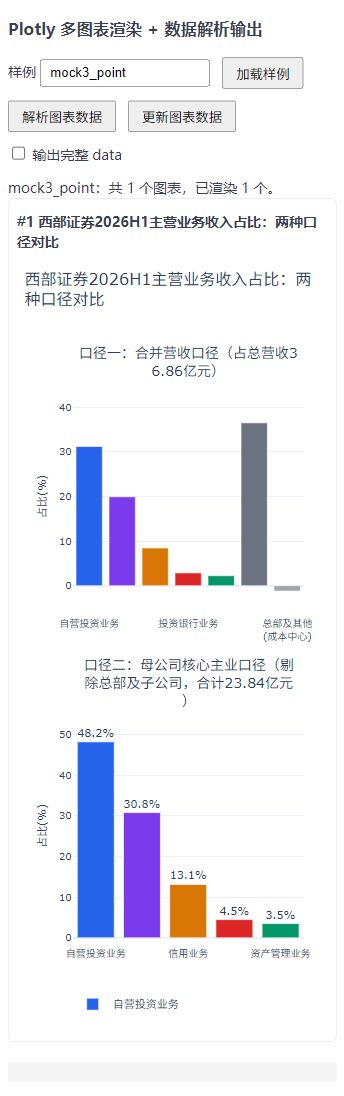
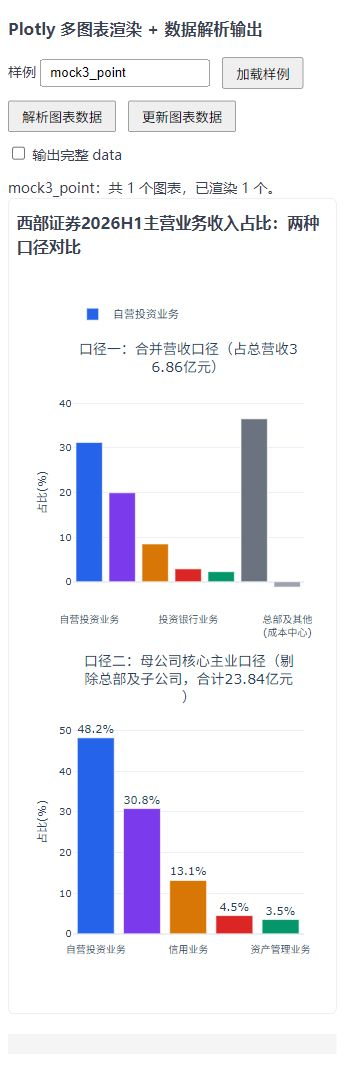
feat  优化默认标题和图例

diff --git a/skills/plotly-responsive/assets/plotly-responsive.js b/skills/plotly-responsive/assets/plotly-responsive.js
@@ -435,21 +435,21 @@
         });
     }
 
-    function legendMetrics(data, layout, availableWidth) {
+    function legendMetrics(data, layout, availableWidth, fontSize = 11) {
         if (layout.showlegend === false || (layout.legend && layout.legend.visible === false)) return { height: 0, rows: 0 };
         const entries = [];
         for (const [i, trace] of data.entries()) {
             if (trace.showlegend === false || trace.visible === false) continue;
             if (['pie', 'funnelarea'].includes(trace.type) && Array.isArray(trace.labels)) {
                 const originalLabels = trace.labels.slice();
-                trace.labels = trace.labels.map(label => wrapText(String(label), 11, Math.max(70, availableWidth - 54)).text);
+                trace.labels = trace.labels.map(label => wrapText(String(label), fontSize, Math.max(70, availableWidth - 54)).text);
                 entries.push(...trace.labels);
                 if (!trace.hovertemplate && !trace.hovertext) {
                     trace.hovertext = originalLabels;
                     trace.hovertemplate = '%{hovertext}<br>%{value}<br>%{percent}<extra></extra>';
                 }
             } else if (!DOMAIN_TYPES.has(trace.type) && (trace.name || trace.showlegend === true || data.length > 1)) {
-                trace.name = wrapText(String(trace.name || 'trace ' + i), 11, Math.max(70, availableWidth - 54)).text;
+                trace.name = wrapText(String(trace.name || 'trace ' + i), fontSize, Math.max(70, availableWidth - 54)).text;
                 entries.push(trace.name);
             }
         }
@@ -460,8 +460,8 @@
         let rows = 1;
         for (const text of entries) {
             const lines = plainText(text).split('\n');
-            const itemWidth = Math.min(availableWidth, Math.max(...lines.map(line => textWidth(line, 11))) + 54);
-            const itemHeight = lines.length * 16 + 8;
+            const itemWidth = Math.min(availableWidth, Math.max(...lines.map(line => textWidth(line, fontSize))) + 54);
+            const itemHeight = lines.length * (fontSize + 5) + 8;
             if (used && used + itemWidth > availableWidth) {
                 height += rowHeight;
                 rows++;
@@ -690,9 +690,88 @@
         return [{ menuIndex, values, buttonNames: menu.buttons.map(button => button.name) }];
     }
 
+    function headerFromTitle(value, layout, mobile) {
+        const title = typeof value === 'string' ? { text: value } : normalizeValue(value || {});
+        const size = number(title.font && title.font.size, mobile ? 16 : 18);
+        title.font = Object.assign({}, layout.font, title.font);
+        title.font.size = mobile ? Math.min(size, 16) : size;
+        return title;
+    }
+
+    // Keep only Plotly's text formatting subset; model HTML is never inserted directly.
+    function renderHeader(element, header) {
+        element.replaceChildren();
+        element.hidden = !header || !header.text && !(header.subtitle && header.subtitle.text);
+        if (element.hidden) return;
+        const doc = element.ownerDocument;
+        element.style.overflowWrap = 'anywhere';
+        element.style.minWidth = '0';
+        function appendText(value, target) {
+            const template = doc.createElement('template');
+            template.innerHTML = String(value || '');
+            function copy(node, parent) {
+                if (node.nodeType === 3) { parent.appendChild(doc.createTextNode(node.textContent)); return; }
+                if (node.nodeType !== 1 || ['SCRIPT', 'STYLE', 'IFRAME', 'OBJECT'].includes(node.tagName)) return;
+                let next = parent;
+                if (['B', 'STRONG', 'I', 'EM', 'U', 'S', 'SUP', 'SUB', 'BR', 'SPAN'].includes(node.tagName)) {
+                    next = doc.createElement(node.tagName.toLowerCase());
+                    if (node.tagName === 'SPAN') {
+                        for (const property of ['color', 'font-size', 'font-weight', 'font-style', 'text-decoration']) {
+                            const value = node.style.getPropertyValue(property);
+                            if (value && !/url\s*\(|expression|var\s*\(/i.test(value)) next.style.setProperty(property, value);
+                        }
+                    }
+                    parent.appendChild(next);
+                }
+                for (const child of node.childNodes) copy(child, next);
+            }
+            for (const child of template.content.childNodes) copy(child, target);
+        }
+        for (const [index, item] of [header, header.subtitle || {}].entries()) {
+            if (!item.text) continue;
+            const node = doc.createElement(index ? 'p' : 'h4');
+            const font = Object.assign({}, header.font, item.font);
+            node.style.margin = index ? '4px 0 0' : '0';
+            node.style.lineHeight = '1.5';
+            node.style.fontSize = Math.max(11, number(font.size, index ? 13 : 16)) + 'px';
+            if (index && !(item.font && item.font.size)) node.style.fontSize = Math.max(11, number(header.font.size, 16) * 0.8) + 'px';
+            node.style.fontWeight = index ? '400' : '600';
+            if (font.family) node.style.fontFamily = font.family;
+            if (font.color) node.style.color = font.color;
+            appendText(item.text, node);
+            element.appendChild(node);
+        }
+    }
+
+    function extractTitleUpdates(layout, mobile) {
+        const updates = [];
+        (layout.updatemenus || []).forEach((menu, menuIndex) => (menu.buttons || []).forEach((button, buttonIndex) => {
+            const update = { menuIndex, buttonIndex };
+            for (const [index, args] of [button.args, button.args2].entries()) {
+                const patch = args && args[button.method === 'update' ? 1 : button.method === 'relayout' ? 0 : -1];
+                if (!patch || typeof patch !== 'object' || Array.isArray(patch)) continue;
+                const keys = Object.keys(patch).filter(key => key === 'title' || key.startsWith('title.'));
+                if (!keys.length) continue;
+                let title = normalizeValue(layout.title || {});
+                if (typeof title === 'string') title = { text: title };
+                if (patch.title !== undefined) Object.assign(title, typeof patch.title === 'string' ? { text: patch.title } : patch.title);
+                for (const key of keys.filter(key => key !== 'title')) setPath(title, key.slice(6), normalizeValue(patch[key]));
+                update[index ? 'alternateTitle' : 'title'] = title;
+                update[index ? 'alternateHeader' : 'header'] = headerFromTitle(title, layout, mobile);
+                for (const key of keys) delete patch[key];
+            }
+            if (!update.header && !update.alternateHeader) return;
+            if (!button.name) button.name = 'responsive-title-' + menuIndex + ':' + buttonIndex;
+            update.name = button.name;
+            updates.push(update);
+        }));
+        return updates;
+    }
+
     function fitFigure(figure, measuredWidth, options = {}) {
         const width = Math.max(1, Math.floor(number(measuredWidth, 360)));
         const mobile = width < MOBILE_WIDTH;
+        const externalTitle = options.titlePlacement !== 'internal';
         const data = normalizeValue(Array.isArray(figure.data) ? figure.data : []);
         const sourceLayout = figure.layout || {};
         const layout = normalizeValue(sourceLayout);
@@ -714,15 +793,18 @@
         const plotWidth = Math.max(40, width - margin.l - margin.r);
         protectDataAnnotations(layout, plotWidth, mobile, warnings);
         const title = typeof layout.title === 'string' ? { text: layout.title } : layout.title || {};
+        const header = externalTitle ? headerFromTitle(title, layout, mobile) : null;
         const titleSize = mobile ? Math.min(number(title.font && title.font.size, 16), 16) : number(title.font && title.font.size, 18);
         const wrappedTitle = wrapText(title.text, titleSize, Math.max(40, width - 28));
         // Native menu clicks do not refit the figure; reserve the longest title up front.
-        const titleLines = Math.max(wrappedTitle.lines, ...yearMenus.flatMap(item =>
+        const titleLines = externalTitle ? 0 : Math.max(wrappedTitle.lines, ...yearMenus.flatMap(item =>
             layout.updatemenus[item.menuIndex].buttons.map(button => {
                 const value = button.args[1].title;
                 return wrapText(typeof value === 'string' ? value : value && value.text, titleSize, Math.max(40, width - 28)).lines;
             })));
-        if (title.text) {
+        const titleUpdates = externalTitle ? extractTitleUpdates(layout, mobile) : [];
+        if (externalTitle) layout.title = { text: '' };
+        if (title.text && !externalTitle) {
             title.text = wrappedTitle.text;
             title.font = Object.assign({}, title.font, { size: titleSize });
             // We reserve the multiline title region ourselves on mobile. Plotly's
@@ -797,7 +879,20 @@
             }
             margin.t = Math.max(Math.ceil(32 + titleLines * titleSize * 1.3 + topLines * 18 + (topLines ? 14 : 0)), Math.min(margin.t, 150));
         }
-        const legend = mobile ? legendMetrics(data, layout, plotWidth) : { height: 0, rows: 0 };
+        const legendFontSize = mobile ? 11 : number(layout.legend && layout.legend.font && layout.legend.font.size, 12);
+        const legend = mobile || externalTitle ? legendMetrics(data, layout, plotWidth, legendFontSize) : { height: 0, rows: 0 };
+        const titleBudget = titleLines * titleSize * 1.3;
+        // A short internal title can share the top with a small legend. Crowded
+        // internal headers use the bottom; wide authored legends keep their layout.
+        const legendPlacement = !legend.height ? 'preserve' : !externalTitle && mobile &&
+            (titleLines > 1 || titleBudget + legend.height + topLines * 18 > Math.min(150, number(sourceLayout.height, 520) * 0.3)) ? 'bottom' : 'top';
+        const bottomLegendHeight = legendPlacement === 'bottom' ? legend.height : 0;
+        if (externalTitle || mobile && legendPlacement === 'top') {
+            if (!mobile) topLines = Math.max(0, ...(layout.annotations || []).filter(a => a.visible !== false && a.showarrow === false &&
+                a.xref === 'paper' && a.yref === 'paper' && a.y >= 0.98).map(a =>
+                wrapText(a.text, number(a.font && a.font.size, 14), plotWidth).lines + Math.max(0, a.y - 1) * 20));
+            margin.t = Math.ceil(32 + titleBudget + topLines * 18 + (topLines ? 14 : 0) + (legendPlacement === 'top' ? legend.height : 0));
+        }
         const colorbars = mobile ? colorbarBands(data, layout, plotWidth) : [];
         const colorbarHeight = colorbars.reduce((sum, item) => sum + item.height, 0);
         const bottomPanels = panels.filter(panel => panel.domain.y[0] < 0.001);
@@ -809,39 +904,40 @@
         const menus = (layout.updatemenus || []).filter(menu => menu.visible !== false);
         const sliders = mobile ? (layout.sliders || []).filter(slider => slider.visible !== false) : [];
         const controlsHeight = mobile ? menus.length * 42 + sliders.length * 68 : 0;
-        if (mobile) margin.b = Math.max(margin.b, axisFoot + legend.height + colorbarHeight + footerHeight + controlsHeight + 12);
+        if (mobile) margin.b = Math.max(margin.b, axisFoot + bottomLegendHeight + colorbarHeight + footerHeight + controlsHeight + 12);
         const baseHeight = number(sourceLayout.height, 520);
-        const height = Math.max(400, mobile ? Math.max(baseHeight, margin.t + margin.b + minimumPlotHeight(panels, layout)) : baseHeight);
+        const height = Math.max(400, mobile || externalTitle ? Math.max(baseHeight, margin.t + margin.b + minimumPlotHeight(panels, layout)) : baseHeight);
         const plotHeight = height - margin.t - margin.b;
-        if (title.text && !mobile && title.y === undefined && title.yref !== 'paper' &&
+        if (!externalTitle && title.text && !mobile && title.y === undefined && title.yref !== 'paper' &&
             (!title.yanchor || title.yanchor === 'auto' || title.yanchor === 'top')) {
             Object.assign(title, { yref: 'container', yanchor: 'top', y: 1 });
         }
         // Plotly's multiline tspans use y as a baseline, unlike single-line titles.
         // Keep that baseline below the SVG edge in pixels, independent of chart height.
-        if (title.text && (mobile || title.yanchor === 'top' && title.yref !== 'paper' && number(title.y, 1) >= 0.9)) {
+        if (!externalTitle && title.text && (mobile || title.yanchor === 'top' && title.yref !== 'paper' && number(title.y, 1) >= 0.9)) {
             title.yref = 'container';
             title.y = Math.min(number(title.y, 1), 1 - (titleSize + 8) / height);
         }
-        if (mobile && legend.height) {
+        if (legend.height) {
             layout.legend = Object.assign({}, layout.legend, {
                 orientation: 'h', xref: 'paper', yref: 'paper', x: 0, xanchor: 'left',
-                y: -axisFoot / plotHeight, yanchor: 'top', itemwidth: 30,
-                font: Object.assign({}, layout.legend && layout.legend.font, { size: 11 }),
+                y: legendPlacement === 'top' ? 1 + (16 + topLines * 18) / plotHeight : -axisFoot / plotHeight,
+                yanchor: legendPlacement === 'top' ? 'bottom' : 'top', itemwidth: 30,
+                font: Object.assign({}, layout.legend && layout.legend.font, { size: legendFontSize }),
                 tracegroupgap: 0
             });
         }
-        let colorbarOffset = axisFoot + legend.height + 8;
+        let colorbarOffset = axisFoot + bottomLegendHeight + 8;
         for (const item of colorbars) {
             item.bar.y = -colorbarOffset / plotHeight;
             colorbarOffset += item.height;
         }
-        let footerOffset = axisFoot + legend.height + colorbarHeight + 8;
+        let footerOffset = axisFoot + bottomLegendHeight + colorbarHeight + 8;
         for (const item of footers) {
             Object.assign(item.annotation, { y: 0, yanchor: 'top', yshift: -footerOffset });
             footerOffset += item.height;
         }
-        let controlOffset = axisFoot + legend.height + colorbarHeight + footerHeight + 8;
+        let controlOffset = axisFoot + bottomLegendHeight + colorbarHeight + footerHeight + 8;
         for (const menu of menus) {
             for (const button of menu.buttons || []) {
                 if (!button.label) {
@@ -877,7 +973,7 @@
             controlOffset += 68;
         }
         layout.height = height;
-        return { data, layout, config, height, panels, stacked, yearMenus, warnings: [...new Set(warnings)] };
+        return { data, layout, config, height, header, titleUpdates, legendPlacement, panels, stacked, yearMenus, warnings: [...new Set(warnings)] };
     }
 
     function overlaps(a, b) {
@@ -1020,5 +1116,5 @@
         return hidden;
     }
 
-    return { fitFigure, wrapText, normalizeValue, resolveTextCollisions, fitCellText, fitTreemapLabels };
+    return { fitFigure, renderHeader, wrapText, normalizeValue, resolveTextCollisions, fitCellText, fitTreemapLabels };
 });

diff --git a/skills/plotly-responsive/SKILL.md b/skills/plotly-responsive/SKILL.md
@@ -14,22 +14,23 @@ description: Use when model-produced Plotly.js figures have clipped or overlappi
 1. 检查模型原文、运行中的 Plotly 版本、容器实际宽度、轨迹类型、坐标轴引用、domain、注释和控件。将失败输入保留为原始 fixture。
 2. 在这些视口及桌面宽度检查标题、图例、坐标轴、色条、子图标题、数据标签和控件；再检查窄到宽、宽到窄、数据更新后的布局。区分主标题、子图标题和数据坐标上的基准线标注：后者常因曲线穿过透明文字底而不可读，即使文字边界互不相交。记录 innerWidth、页面 clientWidth 和真实图表宽度。文字测量应使用渲染结果的边界，不能把字符数估算当作视觉通过。检查图形确实存在：就绪状态、空白树图或亚像素柱宽不能通过验收；检查 SVG clip-path，文字在卡片内仍可能被绘图区裁切。
 3. 在适配层修复一般原因。对源 figure 做独立副本，每次 resize 从源配置重新计算，保留数据值、轴引用、关联关系与交互状态。根据拥挤程度增加纵向空间或把并排子图改为纵向，避免仅缩小整个图表。
-4. 为发现的问题增加能检查实际约束的回归：子图不相交、标题仍有对应子图、数值与引用保留、交互控件分区、源输入不变。控件修复还要逐项点击，确认真实数据、选中项和标题一致，并检查展开、resize、数据更新及恢复全部。本仓库运行 `node tests/responsive.test.js`，自动发现 `mocks/mock*.js`；其他项目使用其回归入口。浏览器验收须等待全部图表及渲染后的标签检查完成，再保存完整截图和 SVG 边界结果。本仓库使用 tests/browser-layout-audit.js 的只读函数，传入原始 fixture 的数据注释索引，采集全部当前 mocks 的 360px 与 480px；检查真实注释底色不透明、文字在底框内、各可见 tspan 的最低对比度至少 4.5:1。树图还要检查标签所在方块/父标题条的实际宽高、字号、换行和省略号，点击展开及返回再复验。保存输入/适配器 SHA-256 和测试输出，运行 `node tests/write-responsive-report.js reports/responsive-YYYY-MM-DD`。最新产物在 reports/responsive-2026-10-14-treemap/；此前按日期保留的 reports 是历史证据。
+4. 为发现的问题增加能检查实际约束的回归：子图不相交、标题仍有对应子图、数值与引用保留、交互控件分区、源输入不变。控件修复还要逐项点击，确认真实数据、选中项和标题一致，并检查展开、resize、数据更新及恢复全部。本仓库运行 `node tests/responsive.test.js`，自动发现 `mocks/mock*.js`；其他项目使用其回归入口。浏览器验收须等待全部图表及渲染后的标签检查完成，再保存完整截图和 SVG 边界结果。本仓库使用 tests/browser-layout-audit.js 的只读函数，传入原始 fixture 的数据注释索引，采集全部当前 mocks 的 360px 与 480px；外置模式检查标题在卡片内、SVG 之前、完整且不重复，默认顶部图例；显式内置模式补充窄屏/宽屏位置验收。检查真实注释底色不透明、文字在底框内、各可见 tspan 的最低对比度至少 4.5:1。树图还要检查标签所在方块/父标题条的实际宽高、字号、换行和省略号，点击展开及返回再复验。保存输入/适配器 SHA-256 和测试输出，运行 `node tests/write-responsive-report.js reports/responsive-YYYY-MM-DD`。最新产物在 reports/responsive-2026-10-14-header/；此前按日期保留的 reports 是历史证据。
 5. 将输入名、原因、修复和验证范围记录在 [references/fix-log.md](references/fix-log.md)。未做视觉验证或输入本身缺少交互语义时明确记录。
 
 ## 已验证的处理原则
 
 - 使用容器宽度与 ResizeObserver。config.responsive 处理窗口 resize，不能替代容器变化时的重新适配。
 - 使用固定的现代 Plotly 版本。plotly-latest 冻结在 1.58.5，不能据此判断现代布局属性是否有效。
-- 标题换行保留 `<sup>`、`<b>`、实体和已有 `<br>`。子图标题随所属 domain 一起移动；其他纸面注释保留其位置含义。
-- Plotly 多行标题的 tspan 与单行文字的基线处理不同；顶部位置采用像素距离换算到 container 坐标，检查第一行是否超出 SVG。窄屏独立预算完整标题行高，关闭 title.automargin，避免其空间不足时将多行 tspan 上移；坐标轴 automargin 继续开启。页面中的标题摘要显示富文本的文字内容。
-- 桌面主标题缺少显式 y/纵向锚点时，明确默认顶部基线，避免从窄屏恢复后 title.automargin 将标题贴到 SVG 顶边。作者明确的 paper 坐标或非顶部位置保留。
+- 默认外置主标题与说明性副标题，使用 HTML 自然换行且只显示一次；渲染副本清空 SVG 主标题，必须接入返回的 header/renderHeader。图例保持 Plotly 原生交互，位于 SVG 顶部并独立预算行高，子图/轴标题和数据标注保留。只有显式 titlePlacement=internal 才考虑窄屏拥挤时的底部图例；短内置标题可与少量图例共存于顶部，宽屏保留作者图例配置与子图排列。不得因手机规则强制修改大尺寸图例。接入、按钮同步与导出规则见 integration.md。
+- 内置标题换行保留 `<sup>`、`<b>`、实体和已有 `<br>`。子图标题随所属 domain 一起移动；其他纸面注释保留其位置含义。
+- Plotly 多行标题的 tspan 与单行文字的基线处理不同；顶部位置采用像素距离换算到 container 坐标，检查第一行是否超出 SVG。窄屏独立预算完整标题行高，关闭 title.automargin，避免其空间不足时将多行 tspan 上移；坐标轴 automargin 继续开启。外置标题由受控文字富文本渲染，不再重复显示摘要。
+- 内置桌面主标题缺少显式 y/纵向锚点时，明确默认顶部基线，避免从窄屏恢复后 title.automargin 将标题贴到 SVG 顶边。作者明确的 paper 坐标或非顶部位置保留。
 - 图内数据/基准标注保持 x/y 和坐标轴引用，采用随 plot 背景变化的实色底隔开曲线；默认前景使用中性色，已声明且对比度足够的语义颜色保留。正常字号参考 [W3C 4.5:1 对比度要求](https://www.w3.org/WAI/WCAG22/Understanding/contrast-minimum.html)，在真实 SVG 中测量，透明底不能以页面白底代替验证。边框只在参考线坐标精确匹配时沿用线色，其他标注用中性边框；纸面标题/脚注不套用数据标注样式。
 - 标注文字至少 12px，留小内边距；可选点标签的碰撞障碍包含整块底框。保护框仍遮挡重要峰谷或多个标注拥挤时，调整位置或将说明放到图外并保留参考关系，再做视觉验收。当前模板不自动改动数据、曲线配色和标注锚点。
 - 窄屏上按原行、列顺序排列并排子图，保留原 trace 的轴/子图引用和双轴 overlaying。饼图、极坐标图等也参与 domain 重排。
-- 图例以实际条目计算空间，包含没有 trace 名称的饼图切片。图例、脚注、按钮和 slider 在底部分区；图例与控件的 y 位置使用像素预算转换为 paper 坐标，避免固定负比例随图高漂移。
+- 图例以条目文字估算行高，包含没有 trace 名称的饼图切片，再用真实 DOM/截图验收。默认顶部图例与子图标题分区；内置且拥挤时的底部图例与脚注、色条、按钮和 slider 分区。位置用像素预算转 paper 坐标，避免随图高漂移。
 - 底部 dropdown 向上展开，验收展开后的每个选项仍在图表边界内。缺少年份筛选参数时，只有按钮年份、逐点 customdata 年份列和 text/hovertext 一致、各数组长度正确且没有已有数据命令时，才补齐筛选。默认 `all` 对应全量数据；每个年份同步筛选坐标、气泡大小和已支持的逐点元数据。接入时通过 yearSelections 保存选择，resize/数据更新从完整源数据重建，不能从当前子集生成 `all`。绑定条件和事件接入见 integration.md。
-- 按钮中的标题也必须采用适配后的坐标和字体；切回 `all` 不能恢复源标题的旧 y 值。提前预算所有选项中最长标题的空间，保留选中年份标题的原始定位属性。已修复的年份筛选器在各宽度保持 dropdown，避免 Plotly.react 切换菜单类型时残留旧 SVG 节点。
+- 外置模式的 update/relayout 按钮标题由 titleUpdates 同步 HTML，args2 恢复标题也要同步；resize 保留源标题与选择状态，不能让按钮重新插入 SVG 主标题。内置模式按钮中的标题也必须采用适配后的坐标和字体；切回 `all` 不能恢复源标题的旧 y 值。提前预算所有选项中最长标题的空间，保留选中年份标题的原始定位属性。已修复的年份筛选器在各宽度保持 dropdown，避免 Plotly.react 切换菜单类型时残留旧 SVG 节点。
 - 坐标轴使用 automargin；分类轴显示有代表性的刻度并保留首尾。窄屏饼图优先把百分比放在内部，标签仍在图例/hover 中。
 - 分类刻度抽样不会改变原类别的位置，换行宽度应由选中刻度的最小间距计算；多行刻度的高度同时纳入子图间距和底部空间。极坐标自动径向刻度应限制数量，检查与角度指标名称的交界。
 - 极坐标的分类名称需要单独换行，优先按词拆分；仅减少径向刻度不能防止角度名称越出卡片。底部 x 刻度增加 ticklabelstandoff，检查与 y 轴零刻度的角落交界。

diff --git a/skills/plotly-responsive/references/fix-log.md b/skills/plotly-responsive/references/fix-log.md
@@ -108,3 +108,19 @@ mock17–mock20 已替换为真实输入，并新增 mock21；新增五个文件
 新报告门槛覆盖缺失树图排字状态、显示于不足尺寸的框、字号不足、文字越出对应框/父标题条，以及缺少省略标记。实际树图数据更新没有借演示按钮冒充验证：该按钮只修改 y 数组；本轮覆盖真实 resize/react、点击展开/返回和全部源数据回归。
 
 产物：`reports/treemap-labels-2026-10-14/` 为前后截图、展开/返回及缩放证据；`reports/responsive-2026-10-14-treemap/` 为全量最新报告。字体门槛是当前密集图的默认值，其他字体/产品需复验；复杂富文本保留原渲染，过小方块仍可留白，完整名称通过原 hover 保留。属性依据：[Plotly treemap](https://plotly.com/javascript/reference/treemap/) 的 textinfo/texttemplate/hovertemplate 与 [uniformtext](https://plotly.com/javascript/reference/layout/#layout-uniformtext)。
+
+## 2026-10-14：外置主标题与顶部图例
+
+按用户明确要求，默认提取主标题到 SVG 外，图例保持顶部；显式内置标题才考虑窄屏拥挤时的底部图例，大尺寸不强制移位。原始 mocks 未修改。
+
+| 原因 | 修复关键点 | 验证 |
+| --- | --- | --- |
+| 卡片摘要与 SVG 主标题重复；SVG 中的多行标题和图例争夺顶部空间。 | 默认返回完整 header，renderHeader 在同级 HTML 区自然换行，渲染副本清空主标题。支持基础文字富文本与原生 subtitle；子图/轴标题、数据标注仍在图内。 | 全部 41 张图在 360/480px 主标题完整、只显示一次、位于 SVG 上方且在卡片内；无可见 SVG 主标题。 |
+| 原窄屏策略总把图例放到底部，外置标题后仍留下原标题边距。 | 默认顶部横向图例，按条目估算行高并用 DOM 验收；顶部与子图标题分区，底部只预算实际位于底部的图例、色条、脚注和控件。 | 两尺寸图例、子图标题、轴、色条与控件无所测越界或相交；包含饼图条目及多子图。 |
+| 内置与外置模式不区分会改变原宽屏布局。 | options.titlePlacement 默认 external；internal 窄屏多行/拥挤标题才使用底部图例，短标题与少量图例仍可同处顶部。>=560px 的 internal 保留作者图例配置。 | mock11 内置 360/480px 底部、1200px 保留原位；独立短标题图在 480px 顶部共存；宽屏原 domain 与图例配置规则通过。 |
+| 按钮更新 title 会重新插入 SVG，外置标题与所选年份可能不同步。 | update/relayout 的 title / title.* 转入 titleUpdates，保留其余命令；args2 保存恢复标题。按 plotly_buttonclicked 同步 HTML，年份继续从完整源数据重建，普通按钮保存对应源标题。 | 360/480px 分别点击 all、2021–2025；14/2/3/3/3/3 个点与标题一致；480→1200→360→480 和 y 数据更新保持 2025。独立切换按钮实际点击选中/恢复均无 SVG 主标题。 |
+| 外置标题不会自动包含在 Plotly 图片导出中。 | README 与接入说明明确要求独立导出容器使用 internal，传入当前年份状态；或由业务合成标题和图表。 | 文档提供接入与导出约定，本轮没有新增产品导出入口或声称完成导出交互验收。 |
+
+**规则回归 55/55；全量 22 个 mock、41 张图 × 360/480px = 82 次最终版本渲染检查通过。** 审阅 44 张完整截图，长页面按 1100px 分段审阅；两尺寸的标题、图例、所测文字及数据标注/树图门槛通过，源 SHA-256 与上轮一致。420/520px 为规则回归。1200px 另检查 mock2、mock3、mock11、mock14、mock21 的标题/图例：主标题与图例没有遮挡，双子图恢复并排；mock3 倾斜轴文字的轴对齐包围框存在相交提示，实际字形未相交，保留作者刻度，未声称宽屏所有文字 bbox 都通过。
+
+产物：reports/responsive-2026-10-14-header/ 是全量报告/截图/DOM/指纹/测试输出；reports/title-layout-2026-10-14/ 保存内置、短标题、按钮切换、年份与宽屏证据。README 的两张效果图刷新为默认外置标题 + 顶部图例。验收门槛增加外置标题完整且唯一、图外位置、卡片范围和禁止底部图例；该默认 API 变更要求调用方渲染 header。自定义动画、slider 与直接 relayout 更新标题由业务组件同步；当前菜单桥接不接管这些事件。
